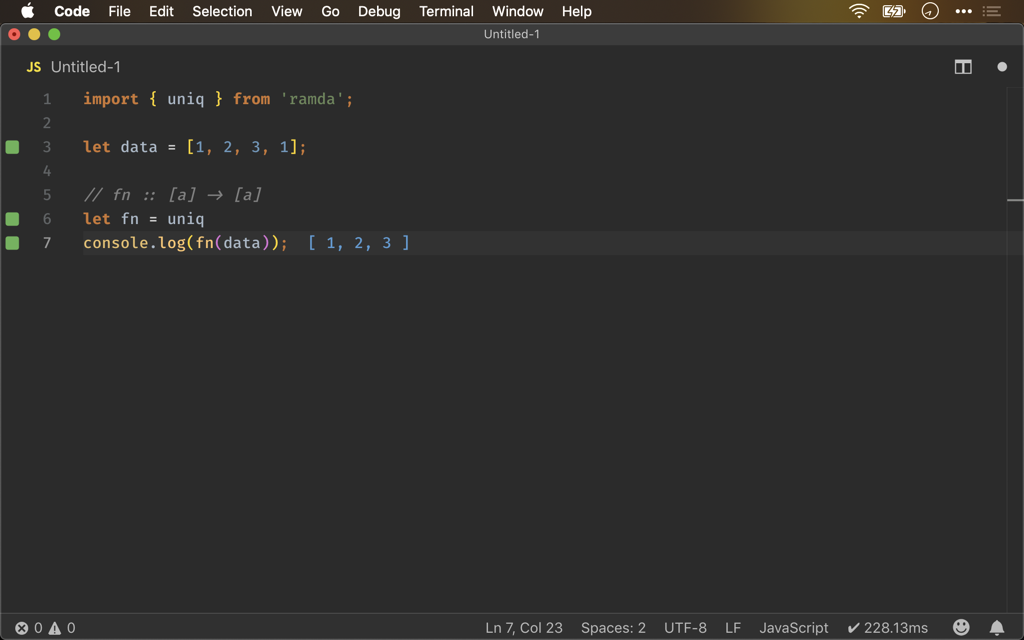
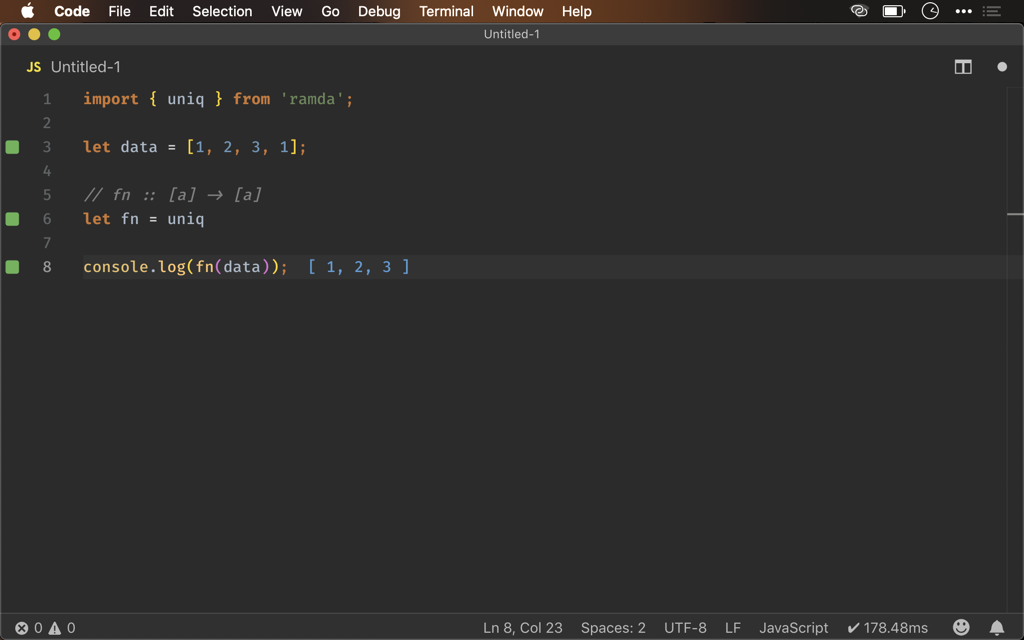
Ramda 之 uniq()

diff --git a/source/_posts/ramda/uniq.md b/source/_posts/ramda/uniq.md
@@ -25,7 +25,8 @@ let uniq = arr => [...new Set(arr)];
 
 // fn :: [a] -> [a]
 let fn = uniq;
-console.log(uniq(data));
+
+console.log(fn(data));
 ```
 
 `data` 很明顯 `1` 是重複的，我們希望結果只顯示 `[1, 2, 3]`。
@@ -45,6 +46,7 @@ let data = [1, 2, 3, 1];
 
 // fn :: [a] -> [a]
 let fn = uniq
+
 console.log(fn(data));
 ```
 
@@ -73,7 +75,8 @@ let data = [
 
 // fn :: [a] -> [a]
 let fn = uniq;
-console.dir(uniq(data));
+
+console.dir(fn(data));
 ```
 
 若 element 為 object，`data` 很明顯第四筆是重複的，我們希望結果只顯示不重複的前三筆。
